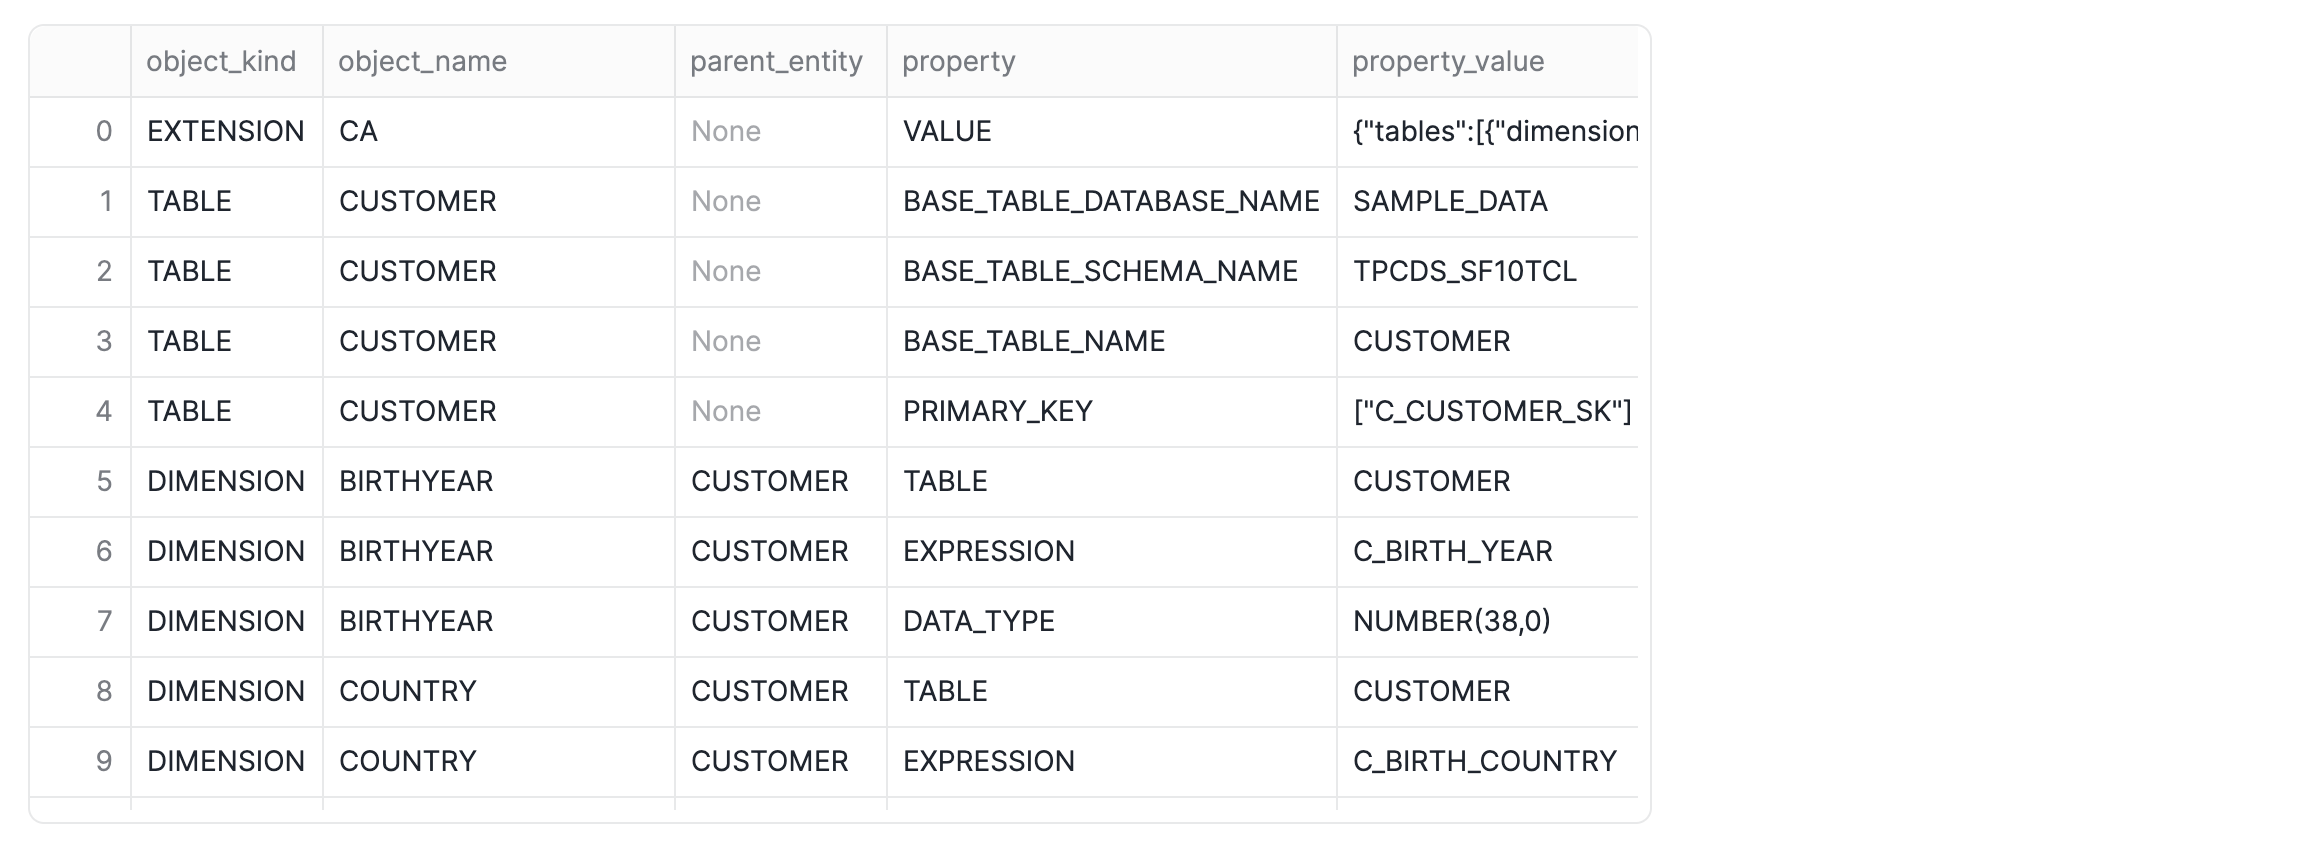
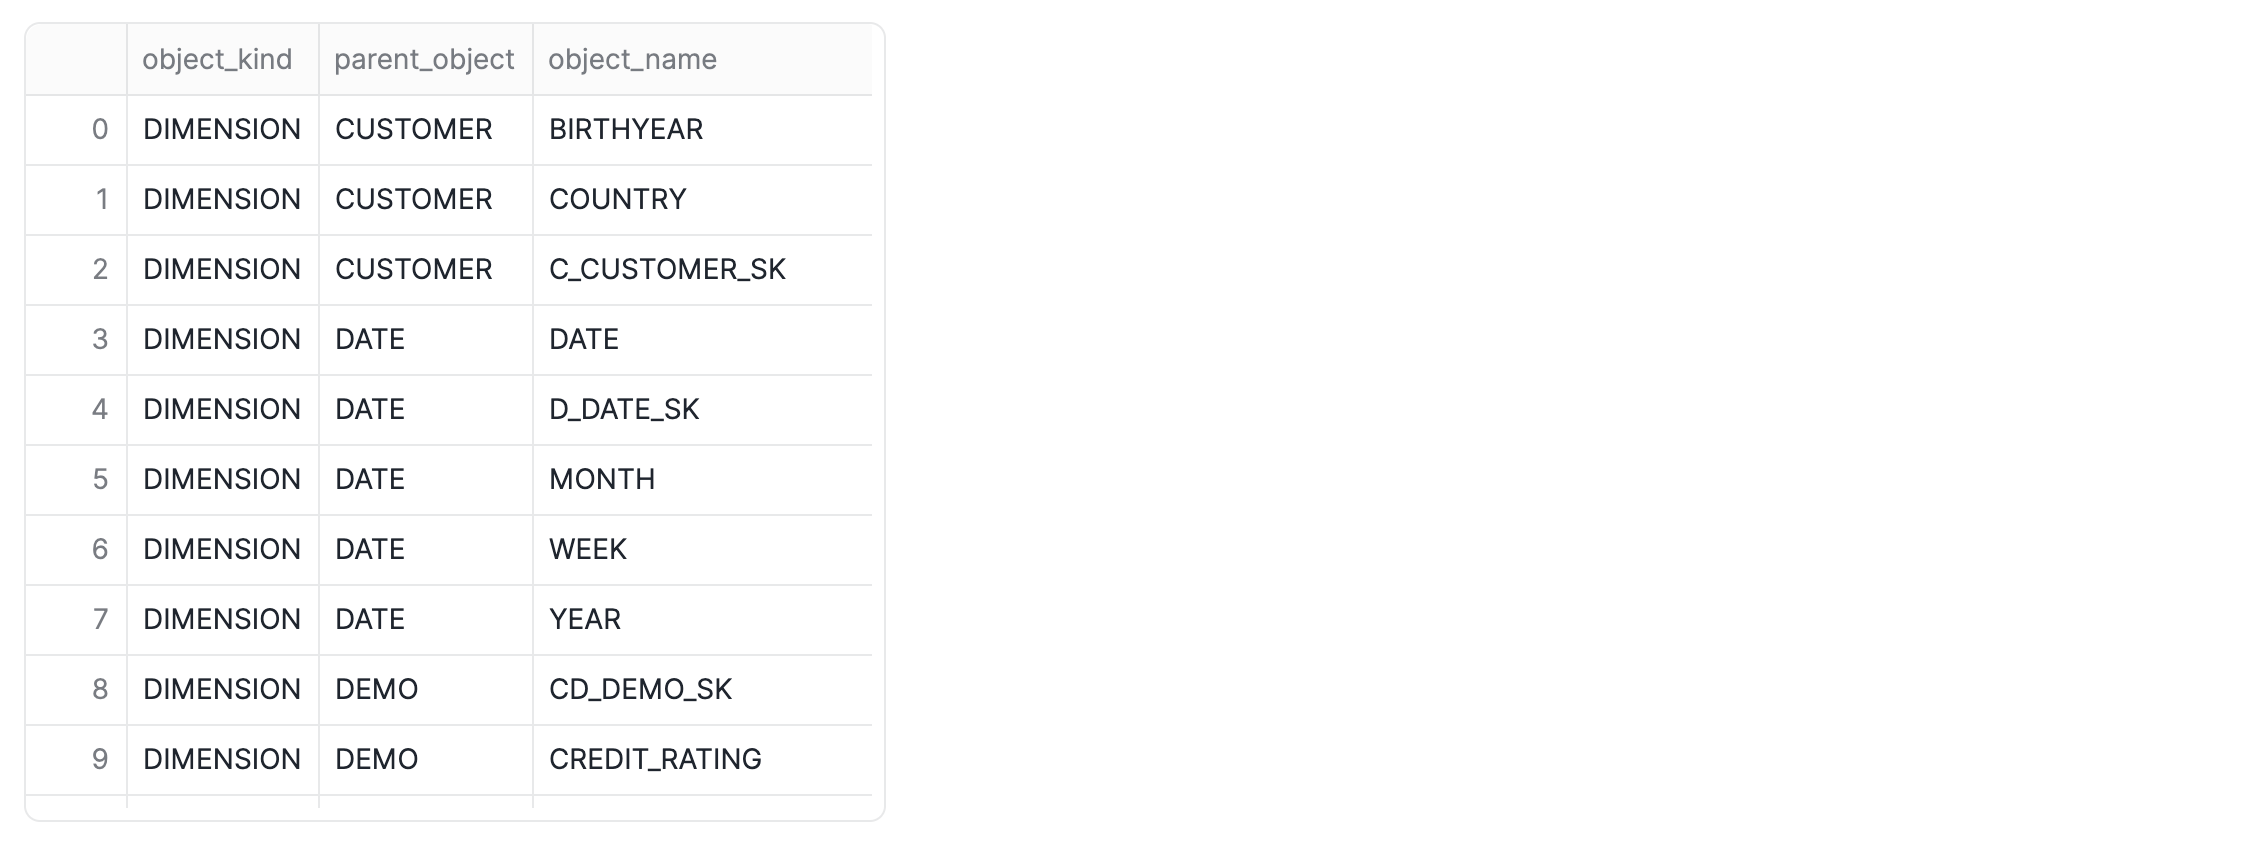
Update

diff --git a/site/sfguides/src/snowflake-semantic-view/snowflake-semantic-view.md b/site/sfguides/src/snowflake-semantic-view/snowflake-semantic-view.md
@@ -214,14 +214,63 @@ SHOW SEMANTIC VIEWS;
 
 ### Step 3: Describe the Semantic View
 
-To understand the structure and components of our newly created semantic view, we can use the `DESC SEMANTIC VIEW` command.
+To understand the structure and components of our newly created semantic view, we can use the `DESC SEMANTIC VIEW` command. This will provide details about its tables, relationships, facts, and dimensions.
 
 ```sql
--- Describes the semantic view named TPCDS_SEMANTIC_VIEW_SM
-DESC SEMANTIC VIEW TPCDS_SEMANTIC_VIEW_SM;
+-- Describes the semantic view named TPCDS_SEMANTIC_VIEW_SM, and as a special bonus uses our new flow operator to filter and project only the metric and dimension names
+
+DESC SEMANTIC VIEW TPCDS_SEMANTIC_VIEW_SM
+    ->> SELECT "object_kind","property_value" as "parent_object","object_name" FROM $1
+        WHERE "object_kind" IN ('METRIC','DIMENSION') AND "property" IN ('TABLE')
+;
 ```
 
 ![image](assets/desc-semantic-view.png)
+
+
+<!-- ------------------------ -->
+## "Talk To" the Semantic View with Cortex Analyst
+Duration: 5
+
+### Natural Language Querying
+
+Snowflake's Cortex Analyst allows you to interact with your semantic views using natural language. This powerful feature transforms how users can explore data without needing to know SQL syntax.
+
+### Accessing Cortex Analyst
+
+You can access Cortex Analyst through the Snowflake interface.
+
+Let's dynamically generate a link to Cortex Analyst so that you can access the semantic view.
+
+First, we'll create a SQL cell named `sql_step7`:
+
+```sql
+SELECT 'https://app.snowflake.com/' || CURRENT_ORGANIZATION_NAME() || '/' || CURRENT_ACCOUNT_NAME() || '/#/studio/analyst/databases/SAMPLE_DATA/schemas/TPCDS_SF10TCL/semanticView/TPCDS_SEMANTIC_VIEW_SM/edit' AS RESULT;
+```
+
+Next, we'll call it from the following Python code cell that we called `py_link`:
+
+```python
+import streamlit as st
+
+link = sql_step7.to_pandas()['RESULT'].iloc[0]
+
+st.link_button("Go to Cortex Analyst", link)
+```
+
+![image](assets/py_link.gif)
+
+
+### Example Natural Language Query
+
+Once in Cortex Analyst, you can ask questions like:
+
+*"Show me the top selling brands in terms of total sales quantity in the state 'TX' in the 'Books' category in the year 2003"*
+
+Cortex Analyst will automatically translate this natural language question into the appropriate Semantic SQL query and return the results.
+
+![image](assets/ask-cortex-analyst.gif)
+
 
 <!-- ------------------------ -->
 ## Querying Semantic Views
@@ -275,31 +324,165 @@ ORDER BY TotalSalesQuantity DESC LIMIT 10;
 
 ![image](assets/query-semantic-view.png)
 
+
 <!-- ------------------------ -->
-## Exploring with Cortex Analyst
-Duration: 5
+## Build an Interactive Data App
+Duration: 10
 
-### Natural Language Querying
+In this step, we'll build 2 simple interactive data apps:
 
-Snowflake's Cortex Analyst allows you to interact with your semantic views using natural language. This powerful feature transforms how users can explore data without needing to know SQL syntax.
+1. Interactive data visualization app
+2. Simple interactive dashboard
 
-### Accessing Cortex Analyst
-
-You can access Cortex Analyst through the Snowflake interface. Use the following SQL to generate a direct link to your semantic view in Cortex Analyst:
+### Query data
+Firstly, we'll modify the SQL query to show data for month 12.
 
 ```sql
-SELECT 'https://app.snowflake.com/' || CURRENT_ORGANIZATION_NAME() || '/' || CURRENT_ACCOUNT_NAME() || '/#/studio/analyst/databases/SAMPLE_DATA/schemas/TPCDS_SF10TCL/semanticView/TPCDS_SEMANTIC_VIEW_SM/edit' AS RESULT;
+-- Query the semantic view for month 12
+SELECT * FROM SEMANTIC_VIEW
+( 
+ TPCDS_SEMANTIC_VIEW_SM
+    DIMENSIONS 
+            Item.Brand,
+            Item.Category,            
+            Date.Year,
+            Date.Month,
+            Store.State
+    METRICS 
+        StoreSales.TotalSalesQuantity
+    WHERE
+        Date.Year = '2002' AND Date.Month = '12' AND Item.Category = 'Books'
+) 
+ORDER BY TotalSalesQuantity DESC;
 ```
 
-### Example Natural Language Query
+Next, in a Python cell named `df`, we'll convert the SQL table to a Pandas DataFrame:
 
-Once in Cortex Analyst, you can ask questions like:
+```python
+cell1.to_pandas()
+```
 
-*"Show me the top selling brands in terms of total sales quantity in the state 'TX' in the 'Books' category in the year 2003"*
-
-Cortex Analyst will automatically translate this natural language question into the appropriate Semantic SQL query and return the results.
+![image](assets/df.png)
 
 
+### App 1: Interactive data visualization app
+
+Here the user can interactively explore the sales data:
+
+```python
+import streamlit as st
+import pandas as pd
+
+st.title("📊 Sales Data Interactive Visualization")
+
+# Create selectbox for grouping option
+group_by = st.selectbox(
+    "Select grouping option:",
+    options=['BRAND', 'STATE'],
+    index=0
+)
+
+# Group the data based on selection
+if group_by == 'BRAND':
+    grouped_data = df.groupby('BRAND')['TOTALSALESQUANTITY'].sum().reset_index()
+    grouped_data = grouped_data.set_index('BRAND')
+    chart_title = "Total Sales Quantity by Brand"
+else:  # group_by == 'STATE'
+    grouped_data = df.groupby('STATE')['TOTALSALESQUANTITY'].sum().reset_index()
+    grouped_data = grouped_data.set_index('STATE')
+    chart_title = "Total Sales Quantity by State"
+
+# Display the chart
+st.subheader(chart_title)
+st.bar_chart(grouped_data['TOTALSALESQUANTITY'])
+
+# Optional: Display the data table
+if st.checkbox("Show data table"):
+    st.subheader("Grouped Data")
+    st.dataframe(grouped_data)
+```
+
+![image](assets/app-1-data-visualization.gif)
+
+
+### App 2: Simple interactive dashboard
+
+Here's a simple dashboard we're we've included a row of metrics:
+
+```python
+import streamlit as st
+import pandas as pd
+
+st.title("📊 Sales Data Dashboard")
+
+# Create selectbox for grouping option
+group_by = st.selectbox(
+    "Select grouping option:",
+    options=['BRAND', 'STATE'],
+    index=0
+)
+
+# Group the data based on selection
+if group_by == 'BRAND':
+    grouped_data = df.groupby('BRAND')['TOTALSALESQUANTITY'].sum().reset_index()
+    grouped_data = grouped_data.set_index('BRAND')
+    chart_title = "Total Sales Quantity by Brand"
+else:  # group_by == 'STATE'
+    grouped_data = df.groupby('STATE')['TOTALSALESQUANTITY'].sum().reset_index()
+    grouped_data = grouped_data.set_index('STATE')
+    chart_title = "Total Sales Quantity by State"
+
+# Calculate KPIs based on current grouping
+total_sales = df['TOTALSALESQUANTITY'].sum()
+avg_sales = df['TOTALSALESQUANTITY'].mean()
+top_performer = grouped_data['TOTALSALESQUANTITY'].max()
+top_performer_name = grouped_data['TOTALSALESQUANTITY'].idxmax()
+
+# Display KPI metrics in 3 columns
+col1, col2, col3 = st.columns(3)
+
+with col1:
+    st.metric(
+        label="Total Sales Quantity", 
+        value=f"{total_sales:,.0f}",
+        delta=None
+    )
+
+with col2:
+    if group_by == 'BRAND':
+        st.metric(
+            label="Average Sales per Brand", 
+            value=f"{avg_sales:,.0f}",
+            delta=f"{((avg_sales/total_sales)*100):.3f}% of total"
+        )
+    else:
+        st.metric(
+            label="Average Sales per State", 
+            value=f"{avg_sales:,.0f}",
+            delta=f"{len(df['STATE'].unique())} state(s)"
+        )
+
+with col3:
+    st.metric(
+        label=f"Top {group_by.title()}", 
+        value=f"{top_performer:,.0f}",
+        delta=f"{top_performer_name}"
+    )
+
+# Display the chart
+st.subheader(chart_title)
+st.bar_chart(grouped_data['TOTALSALESQUANTITY'])
+
+# Optional: Display the data table
+if st.checkbox("Show data table"):
+    st.subheader("Grouped Data")
+    st.dataframe(grouped_data)
+```
+
+![image](assets/app-2-dashboard.gif)
+
+
+<!-- ------------------------ -->
 ## Conclusion And Resources
 Duration: 5
 
